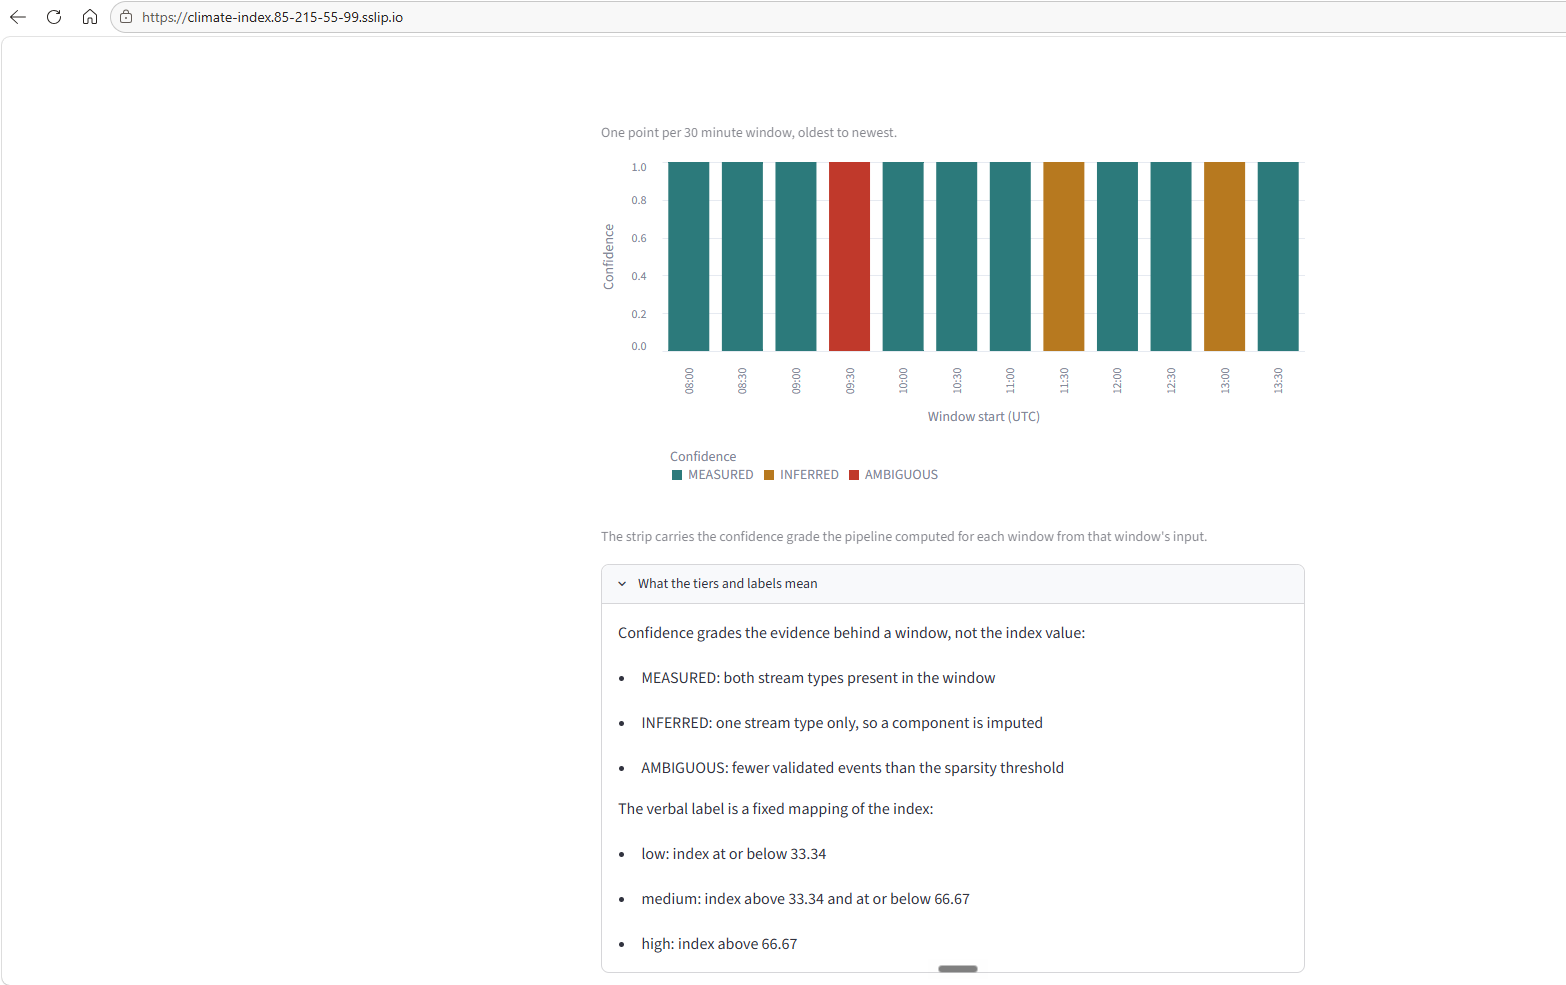
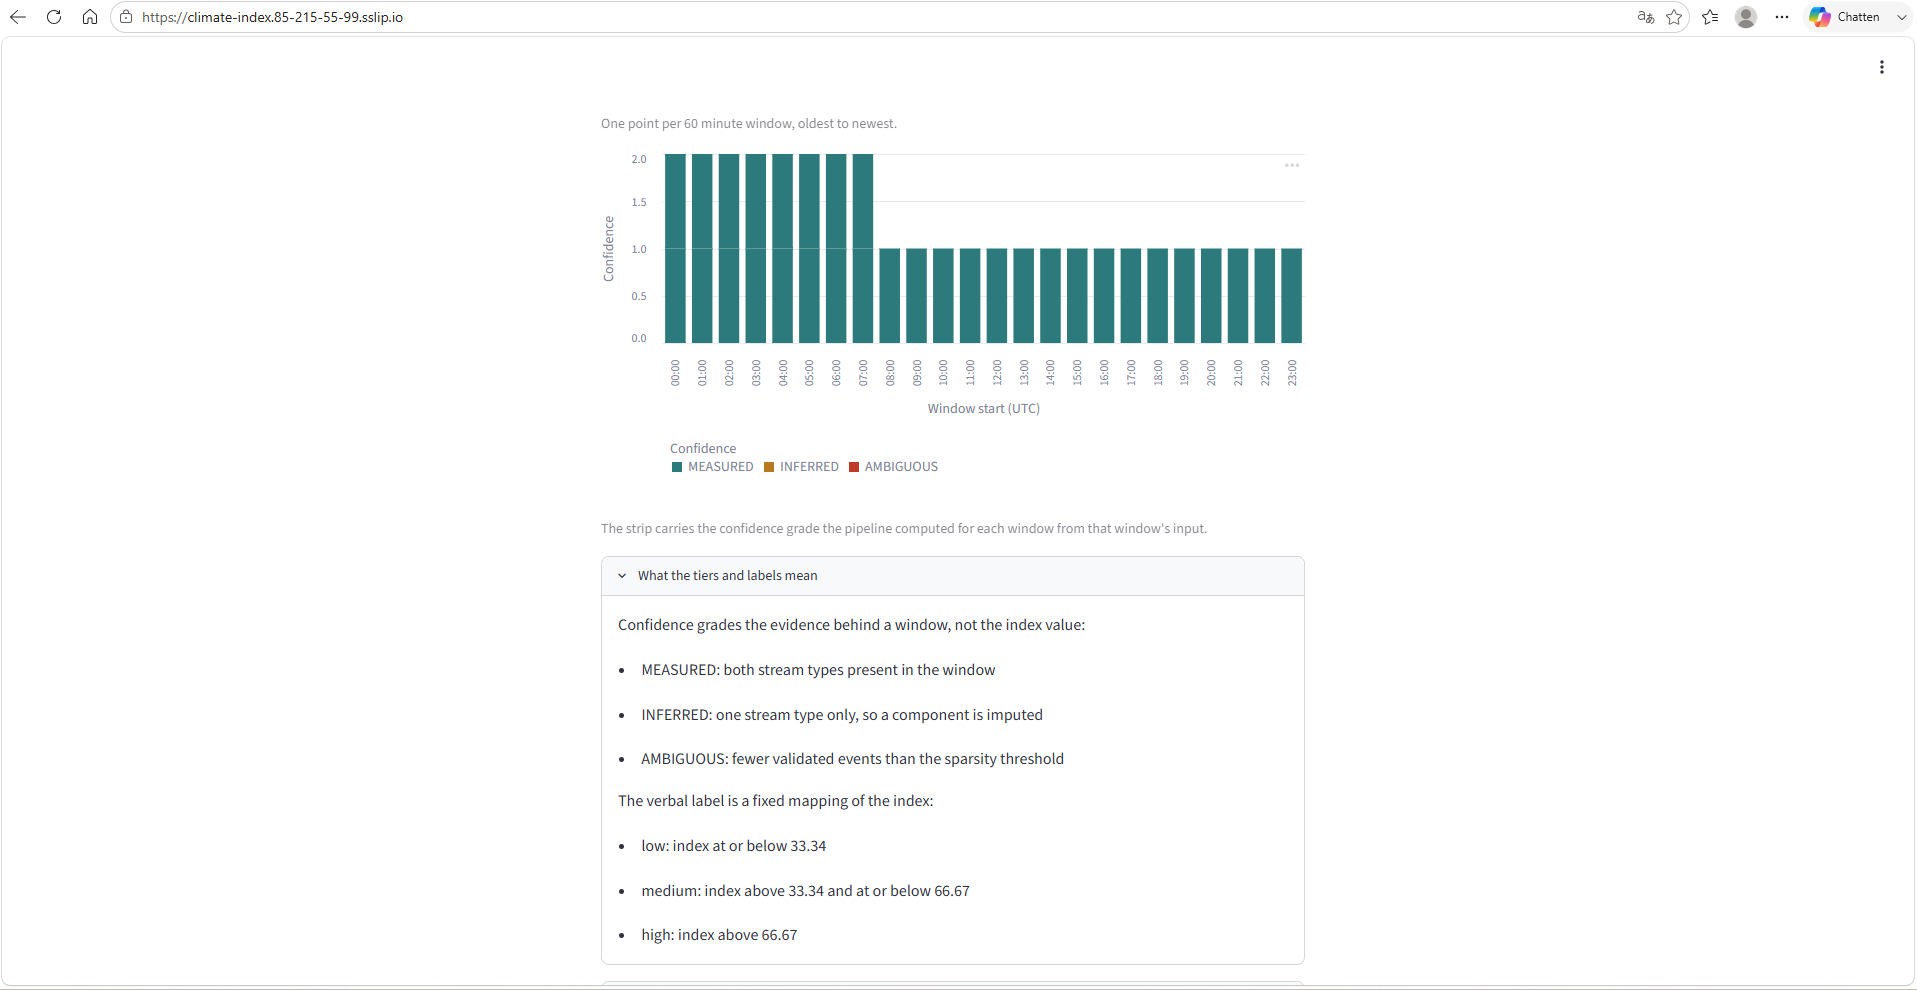
docs: refresh the README screenshots to the real-data dashboard

diff --git a/README.md b/README.md
@@ -96,11 +96,11 @@ A hosted instance of the local pipeline runs continuously at [climate-index.85-2
 
 ![Dashboard overview](docs/img/dashboard-overview.png)
 
-*The dashboard: a region's current index, its label, and its confidence grade, above the index plotted over recent thirty-minute windows on a UTC axis.*
+*The dashboard: a region's current index, its label, and its confidence grade, above the index plotted over recent sixty-minute windows on a UTC axis.*
 
 ![Confidence strip](docs/img/confidence-strip.png)
 
-*The confidence strip: every thirty-minute window is colored by the grade the pipeline computed from that window's own data (teal measured, amber inferred, red ambiguous), so a thin window is flagged rather than hidden.*
+*The confidence strip: every sixty-minute window is colored by the grade the pipeline computed from that window's own data (teal measured, amber inferred, red ambiguous), so a thin window is flagged rather than hidden.*
 
 ## Run it on AWS
 
